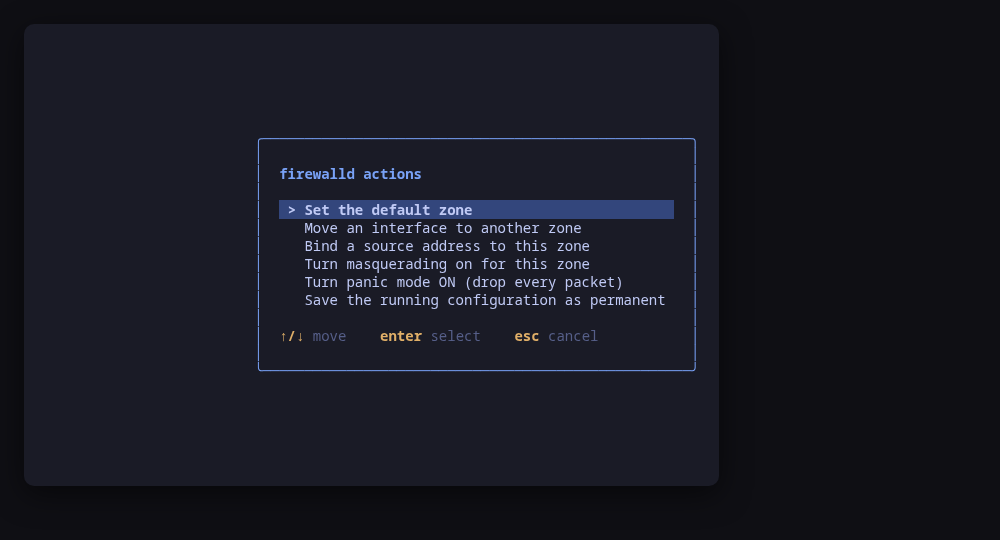
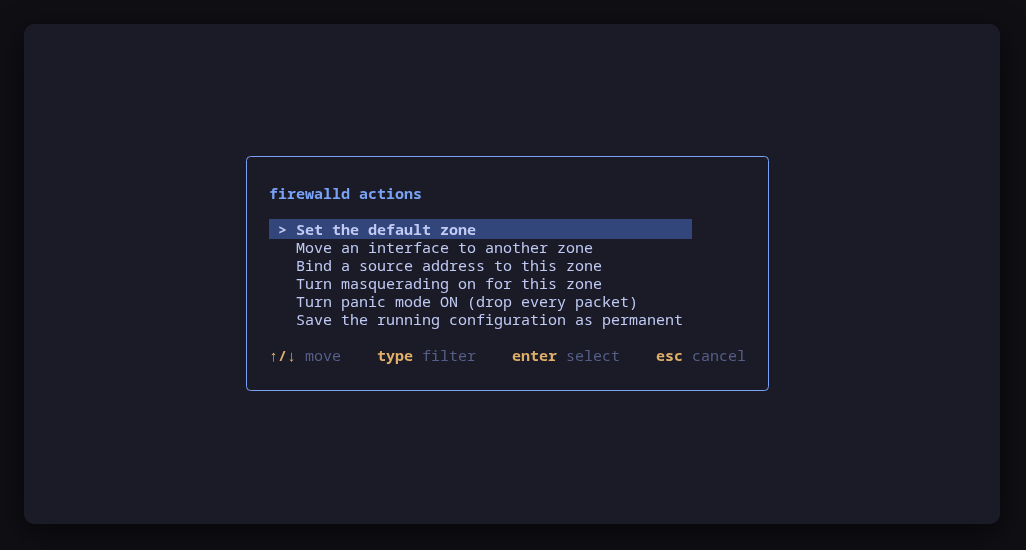
README and screenshots for 0.6.0
Document --open and the quoted previews, render the install snippet for
0.6.0, mark the manifest beta explicitly, and re-render every screenshot
with tui-kit v0.4.3 (box borders fixed) plus a new one of the prefilled
--open form.

Claude-Session: https://claude.ai/code/session_01MbCfX3T8khyd9hsrN5kMo3

Changed region(s): [[0.248, 0.237, 0.744, 0.7111], [0.031, 0.8889, 0.713, 0.9185], [0.248, 0.6222, 0.341, 0.6519]]

diff --git a/README.md b/README.md
@@ -135,7 +135,7 @@ Upgrades then arrive with the rest of your system updates.
 ### Any distribution, static binary
 
 ```sh
-curl -fsSL https://github.com/tui-tools/tui-firewall/releases/download/v0.5.0/tui-firewall_0.5.0_linux_amd64.tar.gz | tar -xz tui-firewall
+curl -fsSL https://github.com/tui-tools/tui-firewall/releases/download/v0.6.0/tui-firewall_0.6.0_linux_amd64.tar.gz | tar -xz tui-firewall
 sudo install -m0755 tui-firewall /usr/local/bin/tui-firewall
 ```
 
@@ -222,6 +222,8 @@ tui-firewall --demo=iptables      # sample cloud-image iptables
 tui-firewall --demo=nftables      # sample router ruleset
 tui-firewall --check              # read the firewall, print JSON, exit
 tui-firewall --report             # print what a bug report needs, exit
+tui-firewall --open 19443/tcp,41641/udp --comment 'headscale control (tailnet)'
+                                  # open the add form prefilled, per port
 tui-firewall --backend ufw        # skip autodetection
 tui-firewall --backend firewalld
 tui-firewall --backend iptables
@@ -264,6 +266,52 @@ would run a binary nobody asked this tool to touch.
 [tui-lab](https://github.com/tui-tools/tui-lab) uses it to test this tool
 against real firewalls on Ubuntu, Fedora and Omarchy Server; the assertions live
 in [`test/smoke.sh`](test/smoke.sh).
+
+### `--open`, a prefilled add form for a hand-off
+
+```sh
+tui-firewall --open 19443/tcp,41641/udp --comment 'headscale control (tailnet)'
+tui-firewall --open 19443/tcp --open 41641/udp     # the same list, repeated
+tui-firewall --demo --open 19443/tcp --comment test # try it on the demo
+```
+
+`--open` starts the UI straight in the add-rule form, filled in to allow the
+first port: action ALLOW, the port, the protocol and the `--comment`. Enter
+shows the preview and `y` applies it, exactly as a rule added by hand with `a`;
+nothing is applied without that confirm. Then the form for the next port opens,
+one form and one confirm per port, in the order given. `esc` skips a port and
+`n` at the confirm declines it; either way the sequence moves on. Every other
+field of the form is still there to change before Enter.
+
+It is the entry point for another tool that has just found a port closed, such
+as [tui-tailscale](https://github.com/tui-tools/tui-tailscale) handing over the
+ports a self-hosted control plane needs, so the user does not have to retype
+what that tool already knew.
+
+Where the rule goes depends on the backend:
+
+| Backend | Group the rule is added to |
+|---|---|
+| ufw | the rule list (`ufw allow 19443/tcp comment 'headscale control (tailnet)'`) |
+| firewalld | the default zone (`--add-port=19443/tcp`); firewalld has no rule comments, so `--comment` is not used and the status line says so |
+| nftables | the `input` chain of the `inet tui` table, or else the first chain hooked on input; on an empty ruleset the status line says so and the forms open once the chains are created with `x` |
+| iptables | the filter `INPUT` chain of each family, so a port gets one form for `iptables` and one for `ip6tables` |
+
+The value is checked before anything is read: each entry is a single port from
+1 to 65535 and `tcp` or `udp`, a port may not be given twice, and the comment is
+one line of at most 128 characters. A wrong value exits with the reason instead
+of opening a half-filled form. `--comment` without `--open`, and `--open` with
+`--check` or `--report`, are refused the same way. `--check` itself is
+unchanged.
+
+Every preview is shell-quoted, so a comment with a space or a parenthesis reads
+as one argument, and the line pasted into a shell runs the same argv:
+
+```console
+$ /usr/bin/sudo -n ufw allow 19443/tcp comment 'headscale control (tailnet)'
+```
+
+![A prefilled --open form](docs/screenshots/tui-firewall-open.png)
 
 ### `--report`, for bug reports
 
